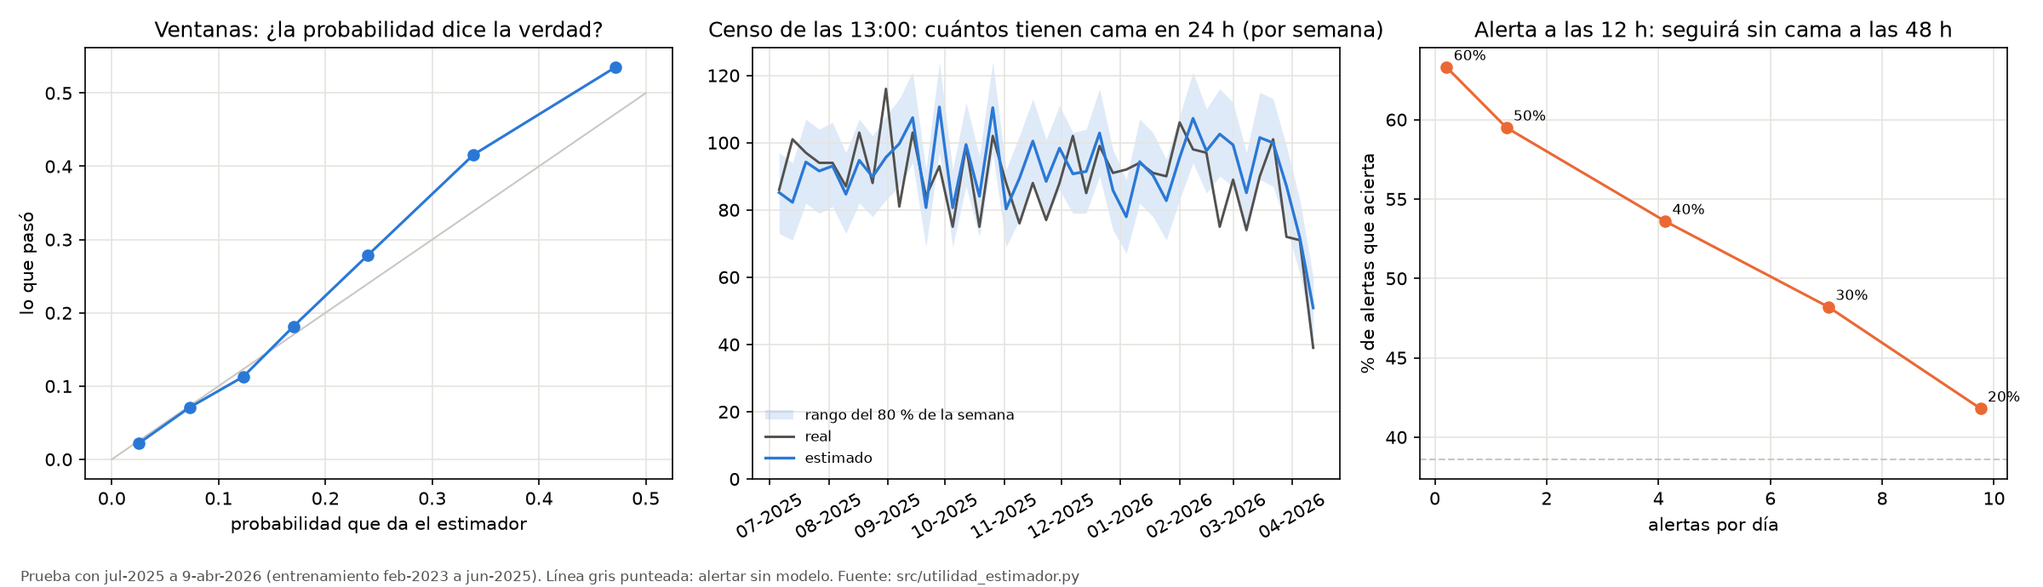
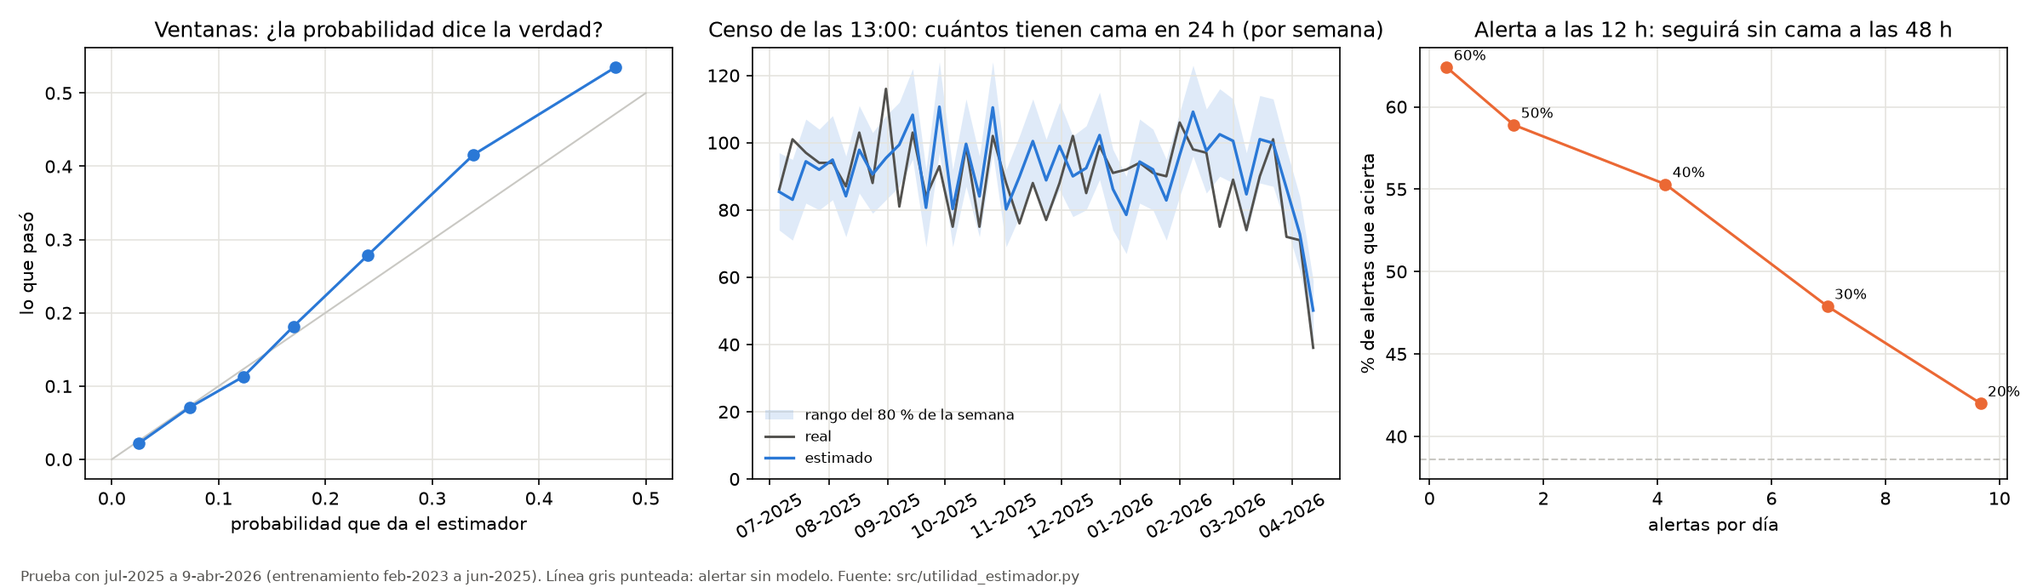
A6: banderas de laboratorio de las primeras 6 h en el estimador
Desde las 6 h de espera el estimador usa una bandera por valor anormal de los
laboratorios de las primeras 6 h (cortes de src/severidad_labs.py). Validado
de dos maneras: entrenando hasta jun-2025 (modelo fijo y reentreno mensual) y
el modelo de consulta entrenado con todos los datos con peso a lo reciente.
estimar_tiempo_restante() acepta laboratorios_6h. Docs actualizados.

diff --git a/src/comparar_estimadores.py b/src/comparar_estimadores.py
@@ -3,6 +3,7 @@ comparar_estimadores.py  -  version 2 (7-nov-2026)
 Tarea A6: maneras de estimar la espera de cama, comparadas en la misma prueba. Define tambien el modelo final (M1), que usa
 estimador_tiempo_restante.py.
 (v2: M1 suma el HISTORIAL del paciente y su RECORRIDO en urgencias, con un modelo por momento de la espera ("landmark"); ver abajo.)
+(v3, 8-nov: desde las 6 h de espera suma las BANDERAS DE LABORATORIO de las primeras 6 h, de src/severidad_labs.py de Daniela; ver abajo.)
 
 LOS TRES METODOS
   M1. TIEMPO RESTANTE (supervivencia por hora): para cada hora de espera se estima la probabilidad de recibir cama en la hora siguiente, segun cuanto lleva
@@ -41,6 +42,12 @@ PROCEDIMIENTOS (si existe procedimientos_por_estancia.csv en HUN_CRUDOS; extraid
      SERVICIO que atendio al paciente (ginecobstetricia, cirugia general, urologia, ortopedia, psiquiatria, pediatria, endoscopia digestiva).
   Los procedimientos NO tienen fecha: pueden ser de despues de recibir cama. Solo se usan como ESCENARIO (src/procedimientos_escenario.py), no en el
   estimador final.
+
+BANDERAS DE LABORATORIO (si existen sev_hemograma_6h_*.csv y sev_quimica_6h_*.csv en HUN_CRUDOS; consultas de sql/severidad_labs_6h.sql)
+  Valores de las primeras 6 h de la visita (leucocitos, hemoglobina, creatinina, BUN, lactato, potasio, sodio, troponina, PCR) con los mismos puntos de corte de
+  src/severidad_labs.py: una bandera por valor anormal, por separado (sumarlas cancela efectos opuestos: troponina y lactato reciben cama antes, PCR alta despues).
+  Por estancia se toma lo mas extremo entre sus registros. Solo se usan para estimar desde las 6 h de espera (antes no se conocen). ~40 % de las estancias tiene
+  algun valor; sin laboratorio, todas las banderas quedan en 0 y con_laboratorio_6h = 0.
 
 COLA Y OCUPACION
   Por hora y por zona (adultos de 15 anos o mas, ninos), con estancias unicas: ocupacion = pacientes en cama; cola = pacientes que ya llegaron, se
@@ -111,6 +118,7 @@ def preparar():
     d = d.reset_index(drop=True)
     d["clave"] = np.arange(len(d))
     d = procedimientos(d)
+    d = laboratorios(t, d)
     d = historial(t, d)
     cargar_etapas(d)
     return d, h, rejilla, estado
@@ -132,6 +140,51 @@ SERVICIOS = {   # en orden de prioridad para el servicio principal
 }
 PROC_GRAV = list(GRAVEDAD) + ["n_marcas_gravedad"]
 PROC_SERV = ["servicio_cod"] + list(SERVICIOS)
+BANDERAS_LAB = {"leucocitos_alt": ("leuc_max", 12, "mayor"), "leucopenia": ("leuc_min", 4, "menor"), "anemia": ("hb_min", 10, "menor"),
+                "creatinina_alta": ("creat_max", 1.5, "mayor"), "bun_alto": ("bun_max", 40, "mayor"), "lactato_alto": ("lactato_max", 2.2, "mayor"),
+                "potasio_alt": ("k_max", 5.5, "mayor"), "sodio_bajo": ("na_min", 130, "menor"), "sodio_alto": ("na_max", 150, "mayor"),
+                "troponina_alta": ("troponina_max", 1.0, "mayor"), "pcr_alta": ("pcr_max", 50, "mayor")}
+LAB = list(BANDERAS_LAB) + ["con_laboratorio_6h"]
+HORAS_LAB = 6                                  # las banderas son de las primeras 6 h: se usan desde las 6 h de espera
+HAY_LAB = False
+
+
+def banderas_desde_valores(v):
+    """v: DataFrame (o dict) con los valores de laboratorio; devuelve las banderas (0/1) con los puntos de corte de severidad_labs.py."""
+    v = pd.DataFrame(v) if not isinstance(v, pd.DataFrame) else v
+    out = {}
+    for n, (col, corte, lado) in BANDERAS_LAB.items():
+        s = pd.to_numeric(v[col], errors="coerce") if col in v else pd.Series(np.nan, index=v.index)
+        out[n] = ((s > corte) if lado == "mayor" else (s < corte)).fillna(False).astype(float).to_numpy()
+    return pd.DataFrame(out, index=v.index)
+
+
+def laboratorios(t, d):
+    """Banderas de laboratorio de las primeras 6 h por estancia (si estan los CSV de Daniela)."""
+    global HAY_LAB
+    hem, qui = sorted(CRUDOS.glob("sev_hemograma_6h_*.csv")), sorted(CRUDOS.glob("sev_quimica_6h_*.csv"))
+    if not hem or not qui:
+        return d
+    agg = {"leuc_max": "max", "leuc_min": "min", "hb_min": "min", "creat_max": "max", "bun_max": "max", "lactato_max": "max", "k_max": "max",
+           "na_max": "max", "na_min": "min", "troponina_max": "max", "pcr_max": "max"}
+    s = pd.concat([pd.read_csv(f) for f in hem]).merge(pd.concat([pd.read_csv(f) for f in qui]), on="visit_occurrence_id", how="outer")
+    cop = pd.read_csv(PROC / "copias.csv", usecols=["visit_occurrence_id", "raiz_id", "misma_persona"])
+    cop = cop[cop.misma_persona]                                                   # como severidad_labs.py: solo copias de la misma persona
+    s["visit_occurrence_id"] = s.visit_occurrence_id.map(cop.set_index("visit_occurrence_id").raiz_id).fillna(s.visit_occurrence_id).astype("int64")
+    s = s.groupby("visit_occurrence_id").agg(agg).reset_index()
+    reg = t.loc[t.hospitalizado & (t.estancia_id >= 0) & (t.episodio == 0), ["visit_occurrence_id", "estancia_id"]]
+    e = reg.merge(s, on="visit_occurrence_id").groupby("estancia_id").agg(agg)     # lo mas extremo entre los registros de la estancia
+    e = banderas_desde_valores(e).assign(con_laboratorio_6h=1.0)
+    d = d.merge(e, left_on="estancia_id", right_index=True, how="left")
+    d[LAB] = d[LAB].fillna(0.0)
+    HAY_LAB = True
+    return d
+
+
+def cols_finales(desde):
+    """Variables del estimador final segun cuantas horas lleva esperando el paciente."""
+    base = COLS_M1_FINAL if desde < HORAS_RECORRIDO else COLS_M1_BASE + HIST
+    return base + (LAB if HAY_LAB and desde >= HORAS_LAB else [])
 
 
 def procedimientos(d):
@@ -350,7 +403,7 @@ def entrenar_m1(tr, rejilla, estado, cols=COLS_M1, vida_media_dias=None):
 
 def entrenar_landmark(tr, rejilla, estado, desde, cols=None, vida_media_dias=None):
     """Modelo para estimar desde 'desde' horas de espera: quienes seguian esperando, con lo que se sabia en ese momento."""
-    cols = COLS_M1_FINAL if cols is None else cols
+    cols = cols_finales(desde) if cols is None else cols
     sub = tr[tr.espera_cama_h > desde].reset_index(drop=True)
     X, idx, kk = filas_persona_hora(sub, rejilla, estado, desde=desde, fijar_estado=True, cols=cols)
     e = sub.espera_cama_h.to_numpy()[idx]
@@ -465,7 +518,8 @@ if __name__ == "__main__":
         general, perfil = referencias(tr, sub, desde)
         base = perdida(y, general)
         preds = {"rango general (referencia)": general, "tabla de perfiles": perfil,
-                 "M1 tiempo restante": predecir_m1(entrenar_landmark(tr, rejilla, estado, desde) if desde < HORAS_RECORRIDO else m1_hist, sub, rejilla, estado, desde),
+                 "M1 tiempo restante": predecir_m1(entrenar_landmark(tr, rejilla, estado, desde) if desde < HORAS_RECORRIDO
+                                                   else entrenar_m1(tr, rejilla, estado, cols_finales(desde)), sub, rejilla, estado, desde),
                  "M1 sin historial ni recorrido": predecir_m1(m1_base, sub, rejilla, estado, desde),
                  "M1 solo con historial": predecir_m1(m1_hist, sub, rejilla, estado, desde),
                  "M1 sin historial ni recorrido, con cola (prueba)": predecir_m1(m1_con_cola, sub, rejilla, estado, desde),

diff --git a/src/estimador_tiempo_restante.py b/src/estimador_tiempo_restante.py
@@ -8,6 +8,8 @@ QUE USA (todo se conoce en el momento de la consulta)
   - El hospital: hora del reloj, dia de la semana y camas ocupadas en su zona (adultos o ninos).
   - Su historial (opcional): de su ultima hospitalizacion, cuanto espero, cuanto duro y hace cuantos dias termino; cuantas hospitalizaciones previas
     tiene; y el grupo del ultimo diagnostico de una visita anterior. Sin historial, el modelo lo trata como paciente nuevo.
+  - Sus laboratorios de las primeras 6 h (opcional, cuentan desde las 6 h de espera): leucocitos, hemoglobina, creatinina, BUN, lactato, potasio,
+    sodio, troponina y PCR; el modelo usa una bandera por valor anormal (src/severidad_labs.py de Daniela).
   - Su recorrido en urgencias (opcional): las etapas de atencion de esta visita, en horas desde la llegada (inicio y fin, o fin vacio si sigue abierta),
     y las admisiones. Si no se da, se asume lo mas comun: una etapa de atencion abierta desde la llegada y una admision al llegar.
   Modelo: comparar_estimadores.py (M1, version 2): con menos de 12 h de espera, un modelo por momento (LANDMARKS: el mas cercano por debajo) con historial y recorrido; desde las 12 h, un
@@ -52,12 +54,12 @@ def entrenar_paquete(d, rejilla, estado, hasta=None):
     """Los 6 modelos del estimador entrenados con las estancias que llegaron antes de 'hasta' (por defecto, todo el periodo confiable)."""
     tr = d if hasta is None else d[d.ini_est < pd.Timestamp(hasta)].reset_index(drop=True)
     modelos = {L: ce.entrenar_landmark(tr, rejilla, estado, L, vida_media_dias=VIDA_MEDIA_DIAS) for L in LANDMARKS}
-    modelos["desde_12h"] = ce.entrenar_m1(tr, rejilla, estado, ce.COLS_M1_BASE + ce.HIST, vida_media_dias=VIDA_MEDIA_DIAS)
+    modelos["desde_12h"] = ce.entrenar_m1(tr, rejilla, estado, ce.cols_finales(ce.HORAS_RECORRIDO), vida_media_dias=VIDA_MEDIA_DIAS)
     corte = np.datetime64(pd.Timestamp(hasta) if hasta is not None else ce.HASTA)
     fin = rejilla[(rejilla >= corte - np.timedelta64(90, "D")) & (rejilla < corte)]
     k = np.searchsorted(rejilla, fin)
     return {"modelos": modelos, "ocup_tipica": {z: float(np.median(estado[z]["ocup"][k])) for z in estado}, "grupos_dx": ce.GRUPOS_DX,
-            "entrenado_hasta": str(pd.Timestamp(corte).date()), "vida_media_dias": VIDA_MEDIA_DIAS, "version": 5}
+            "entrenado_hasta": str(pd.Timestamp(corte).date()), "vida_media_dias": VIDA_MEDIA_DIAS, "con_laboratorio": ce.HAY_LAB, "version": 6}
 
 
 def modelo_para(paq, horas_esperando):
@@ -105,17 +107,19 @@ def _entrenar_y_guardar():
 def _cargar():
     if "m" not in _CACHE:
         paq = joblib.load(MODELO) if MODELO.exists() else None
-        _CACHE["m"] = paq if paq is not None and paq.get("version") == 5 else _entrenar_y_guardar()
+        _CACHE["m"] = paq if paq is not None and paq.get("version") == 6 else _entrenar_y_guardar()
     return _CACHE["m"]
 
 
 def estimar_tiempo_restante(edad, sexo, tipo_visita, horas_esperando=0, ahora=None, ocupacion_zona=None,
-                            hospitalizacion_previa=None, diagnostico_previo=None, etapas_urgencias=None, admisiones=None):
+                            hospitalizacion_previa=None, diagnostico_previo=None, etapas_urgencias=None, admisiones=None, laboratorios_6h=None):
     """Tiempo que le falta a un paciente para recibir cama.
     sexo: 'Mujer' u 'Hombre'; tipo_visita: 'Urgencias', 'Treatment urgency' o 'Ambulatorio'.
     hospitalizacion_previa: dict con espera_h, estancia_h, dias_desde y n_previas (o None si nunca estuvo hospitalizado).
     diagnostico_previo: grupo de diagnostico de una visita anterior (como en datos/referencia/mapeo_dx.csv), o None.
-    etapas_urgencias: lista de (inicio_h, fin_h o None) en horas desde la llegada; admisiones: lista de horas desde la llegada."""
+    etapas_urgencias: lista de (inicio_h, fin_h o None) en horas desde la llegada; admisiones: lista de horas desde la llegada.
+    laboratorios_6h: dict con los valores de las primeras 6 h (leuc_max, leuc_min, hb_min, creat_max, bun_max, lactato_max, k_max, na_max, na_min,
+    troponina_max, pcr_max; los que falten se toman como normales), o None si no le tomaron laboratorio. Solo cuenta desde las 6 h de espera."""
     if sexo not in ("Mujer", "Hombre") or tipo_visita not in et.TIPOS:
         raise ValueError(f"sexo debe ser Mujer u Hombre y tipo_visita uno de {et.TIPOS}")
     if not 0 <= horas_esperando < ce.MAX_H - 1:
@@ -132,6 +136,8 @@ def estimar_tiempo_restante(edad, sexo, tipo_visita, horas_esperando=0, ahora=No
     etapas = [(0.0, None)] if etapas_urgencias is None else etapas_urgencias
     adm = [0.0] if admisiones is None and etapas_urgencias is None else (admisiones or [])
 
+    banderas = ({c: 0.0 for c in ce.LAB} if not laboratorios_6h else
+                {**ce.banderas_desde_valores(pd.DataFrame([laboratorios_6h])).iloc[0].to_dict(), "con_laboratorio_6h": 1.0})
     c = int(np.floor(horas_esperando))
     k = np.arange(c, ce.MAX_H)
     reloj = pd.DatetimeIndex(ahora + pd.to_timedelta(k - horas_esperando, unit="h"))
@@ -143,7 +149,8 @@ def estimar_tiempo_restante(edad, sexo, tipo_visita, horas_esperando=0, ahora=No
                       "zona_cod": int(zona == "ninos"),
                       "espera_prev_h": hp.get("espera_h", np.nan), "estancia_prev_h": hp.get("estancia_h", np.nan),
                       "n_hosp_previas": hp.get("n_previas", 1 if hp else 0), "dias_desde_hosp": hp.get("dias_desde", np.nan),
-                      "dx_previo_cod": paq["grupos_dx"].index(diagnostico_previo) if diagnostico_previo else np.nan, **rec})[m.cols_]
+                      "dx_previo_cod": paq["grupos_dx"].index(diagnostico_previo) if diagnostico_previo else np.nan, **rec,
+                      **{c: float(v) for c, v in banderas.items()}})[m.cols_]
     p = m.predict_proba(X)[:, 1]
     S = np.concatenate([[1.0], np.cumprod(1 - p)])[None, :]                    # S[j] = P(sigue esperando j horas despues de 'c')
     pct = np.clip(ce.cuantiles_de_supervivencia(S)[0] - (horas_esperando - c), 0, None)

diff --git a/src/ventana_entrenamiento.py b/src/ventana_entrenamiento.py
@@ -30,7 +30,7 @@ DIAS_SIN_USAR = 14             # en el reentrenamiento mensual, las llegadas de 
 def modelo(d, rejilla, estado, tr, desde, vida=None):
     if desde < ce.HORAS_RECORRIDO:
         return ce.entrenar_landmark(tr, rejilla, estado, desde, vida_media_dias=vida)
-    return ce.entrenar_m1(tr, rejilla, estado, ce.COLS_M1_BASE + ce.HIST, vida_media_dias=vida)
+    return ce.entrenar_m1(tr, rejilla, estado, ce.cols_finales(desde), vida_media_dias=vida)
 
 
 def reentreno_mensual(d, rejilla, estado, sub, desde, vida):

diff --git a/docs/estimador_tiempos.md b/docs/estimador_tiempos.md
@@ -4,8 +4,8 @@
 
 ## Resumen
 1. **La espera es individual.** Pacientes que llegan el mismo día o a la misma hora no esperan parecido. Por eso la ocupación del hospital o la cola casi no ayudan a estimarla, y lo que sirve es información de cada paciente.
-2. **El estimador es un modelo de tiempo restante.** Para un paciente que espera cama, da el rango de lo que le falta (percentiles 25, 50, 75 y 90) y la probabilidad de recibir cama en 6, 12 y 24 horas, y se recalcula a medida que pasa la espera. Usa el paciente, la hora del reloj, la ocupación, su historial de hospitalizaciones y su recorrido en urgencias, todo conocido en el momento. Se consulta con `estimar_tiempo_restante()`.
-3. **Funciona mejor que todo lo demás que probamos, pero el techo es bajo.** Reentrenado cada mes con más peso en lo reciente, que es como se debe usar porque el hospital cambió, mejora el rango 8,9 % al llegar y 10,8–11,3 % entre las 3 y las 6 horas de espera, frente a darle a todos el mismo rango. Sus percentiles aciertan en datos nuevos, y le gana con margen comprobado a las otras cinco alternativas.
+2. **El estimador es un modelo de tiempo restante.** Para un paciente que espera cama, da el rango de lo que le falta (percentiles 25, 50, 75 y 90) y la probabilidad de recibir cama en 6, 12 y 24 horas, y se recalcula a medida que pasa la espera. Usa el paciente, la hora del reloj, la ocupación, su historial de hospitalizaciones, su recorrido en urgencias y, desde las 6 h de espera, las banderas de sus laboratorios de las primeras 6 h (sección 3.3), todo conocido en el momento. Se consulta con `estimar_tiempo_restante()`.
+3. **Funciona mejor que todo lo demás que probamos, pero el techo es bajo.** Reentrenado cada mes con más peso en lo reciente, que es como se debe usar porque el hospital cambió, mejora el rango 8,9 % al llegar y 11,3–11,7 % entre las 3 y las 6 horas de espera, frente a darle a todos el mismo rango. Sus percentiles aciertan en datos nuevos, y le gana con margen comprobado a las otras cinco alternativas.
 4. **Lo que más decide cuándo llega la cama es la hora del reloj:** entre las 6 y las 12 h casi nadie recibe cama; las camas se asignan entre las 15 y las 17 h y entre las 20 y las 23 h.
 5. **Pensado para usarse cada día** (sección 3.2):
    - **Para el paciente:** responde en ventanas del día («esta tarde», «esta noche», «mañana en la tarde») con probabilidades que dicen la verdad.
@@ -101,23 +101,23 @@ estimar_tiempo_restante(edad=67, sexo="Mujer", tipo_visita="Urgencias", horas_es
 ## 3. Qué tan bien funciona
 **La prueba.** Todo se entrenó con llegadas de feb-2023 a jun-2025 y se probó con las 5.430 estancias de jul-2025 a 9-abr-2026, que ningún modelo había visto. Se mide la **mejora frente al rango general** (darle a todos los mismos percentiles), con la pérdida de cuantiles, que es el error estándar para percentiles. Los intervalos del 95 % salen de un bootstrap por semanas (1.000 repeticiones), porque los pacientes de una misma semana se parecen entre sí.
 
-**Cómo mejora al sumar información** (lo que le falta a quien sigue esperando). Todos los modelos de esta tabla se entrenaron una sola vez, para compararlos en igualdad de condiciones. Reentrenado cada mes con más peso en lo reciente, el estimador final gana entre 0,5 y 1,1 puntos más (sección 3.1).
+**Cómo mejora al sumar información** (lo que le falta a quien sigue esperando). Todos los modelos de esta tabla se entrenaron una sola vez, para compararlos en igualdad de condiciones. Reentrenado cada mes con más peso en lo reciente, el estimador final gana hasta 1,3 puntos más en las primeras 6 h (sección 3.1). Desde las 6 h incluye las banderas de laboratorio (sección 3.3).
 
 | Horas esperando | Tabla de perfiles | Modelo sin historial ni recorrido | + historial | **Estimador final** (IC 95 %) |
 |---|---|---|---|---|
 | 0 (al llegar) | 6,4 % | 7,0 % | 8,0 % | **8,4 % (7,5 a 9,3)** |
 | 3 h | 7,1 % | 8,0 % | 8,7 % | **10,4 % (9,4 a 11,3)** |
-| 6 h | 6,2 % | 7,7 % | 8,3 % | **9,7 % (8,8 a 10,7)** |
-| 12 h | 4,1 % | 6,7 % | 7,1 % | **7,1 % (5,5 a 8,5)** |
-| 24 h | 2,6 % | 4,9 % | 5,3 % | **5,3 % (3,5 a 7,0)** |
-| 48 h | −1,3 % | 2,0 % | 1,5 % | **1,5 % (−0,5 a 3,3)** |
+| 6 h | 6,2 % | 7,7 % | 8,3 % | **10,6 % (9,6 a 11,6)** |
+| 12 h | 4,1 % | 6,7 % | 7,1 % | **8,0 % (6,4 a 9,5)** |
+| 24 h | 2,6 % | 4,9 % | 5,3 % | **6,1 % (4,5 a 7,8)** |
+| 48 h | −1,3 % | 2,0 % | 1,5 % | **2,9 % (0,9 a 4,7)** |
 
-**¿Aciertan los percentiles?** Lo ideal es que el 25 / 50 / 75 / 90 % de los casos nuevos quede por debajo de cada uno. Con el estimador final quedan 26,5 / 51,8 / 74,2 / 87,7 % al llegar y 25,6 / 49,1 / 72,2 / 87,3 % a las 6 h. El p90 queda algo corto (87–88 %) porque los peores casos siguen empeorando (`HALLAZGOS.md` 4.3); conviene leerlo como un piso.
+**¿Aciertan los percentiles?** Lo ideal es que el 25 / 50 / 75 / 90 % de los casos nuevos quede por debajo de cada uno. Con el estimador final quedan 26,5 / 51,8 / 74,2 / 87,7 % al llegar y 25,5 / 49,4 / 72,1 / 87,2 % a las 6 h. El p90 queda algo corto (87–88 %) porque los peores casos siguen empeorando (`HALLAZGOS.md` 4.3); conviene leerlo como un piso.
 
 **Cómo leerlo:**
 - **Contra la tabla de perfiles, la ventaja es real en todos los momentos:** el intervalo de la diferencia nunca incluye el 0 (+1,4 a +2,8 puntos al llegar; +3,0 a +4,7 a las 6 h).
 - **Contra el modelo de cuantiles al llegar,** que era el segundo mejor, la ventaja también es real: +0,8 a +2,1 puntos.
-- **El historial suma desde la llegada, y el recorrido en las primeras horas** (probado a las 3 y a las 6 h). Desde las 12 h, la espera depende de otras cosas; a las 48 h ningún método mejora con claridad al rango general.
+- **El historial suma desde la llegada, y el recorrido en las primeras horas** (probado a las 3 y a las 6 h). Desde las 6 h suman las banderas de laboratorio (+0,9 puntos a las 6 h, +0,9 a las 12 h, +0,8 a las 24 h); a las 48 h la mejora es pequeña (2,9 %), aunque ya no incluye el 0.
 - **El techo es bajo:** el error de la mediana sigue siendo de unas 24 h al llegar.
 
 **Agosto y septiembre de 2025.** Según el equipo, el HUN tuvo sobredemanda porque los hospitales cercanos fueron intervenidos por el Estado y quedó como la única opción de la zona. En los datos se ve poco: un 6–7 % más de llegadas que en los mismos meses de 2024, con ingresos a cama y espera mediana normales. Evaluado aparte, el estimador mejora 8,4 % en esos meses y 8,4 % en el resto. El resultado se sostiene.
@@ -136,12 +136,12 @@ Un modelo entrenado sobre todo con 2023 y 2024 aprende un hospital que ya no exi
 
 | Forma de entrenar | Al llegar | 3 h | 6 h | 12 h | 24 h |
 |---|---|---|---|---|---|
-| Todo feb-2023 a jun-2025 (modelo fijo) | 8,4 % | 10,4 % | 9,7 % | 7,1 % | 5,3 % |
-| Solo los últimos 12 meses | 8,3 % | 10,3 % | 9,8 % | 6,3 % | 4,7 % |
-| Solo los últimos 6 meses | 8,4 % | 9,8 % | 9,2 % | 7,0 % | 5,9 % |
-| Todo, con más peso en lo reciente (vida media de 6 meses) | 8,6 % | 10,6 % | 9,9 % | 7,0 % | 5,3 % |
-| Reentrenado cada mes con todo lo anterior | 8,9 % | 10,9 % | 10,2 % | 7,5 % | 6,0 % |
-| **Reentrenado cada mes, con más peso en lo reciente** | **8,9 %** | **11,3 %** | **10,8 %** | **7,6 %** | **6,3 %** |
+| Todo feb-2023 a jun-2025 (modelo fijo) | 8,4 % | 10,4 % | 10,6 % | 8,0 % | 6,1 % |
+| Solo los últimos 12 meses | 8,3 % | 10,3 % | 10,1 % | 6,6 % | 4,8 % |
+| Solo los últimos 6 meses | 8,4 % | 9,8 % | 9,5 % | 7,1 % | 5,8 % |
+| Todo, con más peso en lo reciente (vida media de 6 meses) | 8,6 % | 10,6 % | 10,9 % | 8,1 % | 6,3 % |
+| Reentrenado cada mes con todo lo anterior | 8,9 % | 10,9 % | 11,0 % | 8,4 % | 6,5 % |
+| **Reentrenado cada mes, con más peso en lo reciente** | **8,9 %** | **11,3 %** | **11,7 %** | **7,9 %** | **6,3 %** |
 
 En el reentrenamiento mensual, cada mes de la prueba se estimó con un modelo entrenado solo con lo que se sabía antes de empezar ese mes. Es decir, con las estancias que ya tenían cama y que llegaron al menos 14 días antes.
 
@@ -183,12 +183,12 @@ Código: `src/utilidad_estimador.py`. La precisión para un paciente tiene un te
 | Regla | Alertas por día | Acierta | Detecta |
 |---|---|---|---|
 | Sin modelo: todos los que llevan 12 h | 11,1 | 38,6 % | 100 % |
-| Probabilidad ≥ 30 % | 7,0 | 48,2 % | 79,5 % |
-| **Probabilidad ≥ 40 %** | **4,1** | **53,6 %** | 51,7 % |
-| Probabilidad ≥ 50 % | 1,3 | 59,5 % | 17,9 % |
+| Probabilidad ≥ 30 % | 7,0 | 47,9 % | 78,3 % |
+| **Probabilidad ≥ 40 %** | **4,1** | **55,3 %** | 53,5 % |
+| Probabilidad ≥ 50 % | 1,5 | 58,9 % | 20,3 % |
 | Sin modelo: todos los que llevan 24 h (12 h más tarde) | 8,1 | 52,9 % | 100 % |
 
-**Lectura:** con un corte de 40 %, el estimador da 4,1 alertas diarias a las 12 h y acierta tanto como esperar a las 24 h y alertar a todos (54 % frente a 53 %), pero con **12 horas más de margen** y la mitad de alertas. A cambio, detecta solo a la mitad (52 %) de los que terminarán esperando más de 48 h. Complementa la alerta C de `src/alertas.py` (a las 48 h de espera), que avisa más tarde y acierta más.
+**Lectura:** con un corte de 40 %, el estimador da 4,1 alertas diarias a las 12 h y acierta algo más que esperar a las 24 h y alertar a todos (55 % frente a 53 %), pero con **12 horas más de margen** y la mitad de alertas. A cambio, detecta solo a la mitad (54 %) de los que terminarán esperando más de 48 h. Complementa la alerta C de `src/alertas.py` (a las 48 h de espera), que avisa más tarde y acierta más.
 
 **4. En el dashboard.** `dashboard/estimador.py` reúne todo en una página. Se describe al paciente (edad, sexo, tipo de visita, horas de espera y, si se sabe, su hospitalización anterior y sus etapas en urgencias) y muestra:
 - la ventana más probable y el gráfico de ventanas con la acumulada;
@@ -196,6 +196,25 @@ Código: `src/utilidad_estimador.py`. La precisión para un paciente tiene un te
 - el resumen de qué tan bien funciona, leído de las tablas agregadas.
 
 No usa datos de pacientes. El censo de pacientes en espera necesitaría los datos del hospital en tiempo real, que no tenemos.
+
+### 3.3 Banderas de laboratorio de las primeras 6 h (8-nov) y las dos maneras de entrenar
+Código: `src/comparar_estimadores.py` v3 (`laboratorios()`, `cols_finales()`); datos: `sev_hemograma_6h_*.csv` y `sev_quimica_6h_*.csv` (`sql/severidad_labs_6h.sql`, de Daniela).
+Con los valores de las primeras 6 h de la visita se arma una bandera por cada valor anormal, con los cortes de `src/severidad_labs.py`: leucocitos > 12 o < 4, hemoglobina < 10, creatinina > 1,5, BUN > 40, lactato > 2,2, potasio > 5,5, sodio < 130 o > 150, troponina > 1,0 y PCR > 50. Se usan **por separado**, porque sumarlas cancela efectos opuestos (`docs/espera_con_labs_y_severidad.md`). Las banderas solo entran desde las 6 h de espera, porque antes el resultado no se conoce. El 40 % de las estancias tiene algún valor; las demás quedan con todas las banderas en 0 y `con_laboratorio_6h = 0`. Con los valores numéricos en vez de las banderas el resultado es casi igual; se eligen las banderas porque se explican solas.
+
+**Manera 1: validación honesta** (entrenar hasta jun-2025 y probar con jul-2025 a 9-abr-2026). Mejora frente al rango general:
+
+| Horas esperando | Sin banderas, modelo fijo | **Con banderas, modelo fijo** | Sin banderas, reentreno mensual | **Con banderas, reentreno mensual** |
+|---|---|---|---|---|
+| 6 h | 9,7 % | **10,6 % (9,6 a 11,6)** | 10,8 % | **11,7 % (10,7 a 12,8)** |
+| 12 h | 7,1 % | **8,0 % (6,4 a 9,5)** | 7,6 % | **7,9 % (6,3 a 9,5)** |
+| 24 h | 5,3 % | **6,1 % (4,5 a 7,8)** | 6,3 % | **6,3 % (4,4 a 8,0)** |
+| 48 h | 1,5 % | **2,9 % (0,9 a 4,7)** | — | — |
+
+Antes de las 6 h nada cambia (8,4 % / 8,9 % al llegar y 10,4 % / 11,3 % a las 3 h). En la prueba con el modelo fijo, la diferencia por las banderas es real: +1,1 puntos a las 6 h (IC 0,7 a 1,5), +1,1 a las 12 h (0,5 a 1,8) y +1,1 a las 24 h (0,4 a 1,9). Los percentiles siguen calibrados (87–88 % debajo del p90). Con el reentreno mensual, la ganancia se concentra en las 6 h; a las 12 y 24 h el reentreno ya no le suma al modelo fijo (diferencia −0,7 a +0,6 y −0,9 a +1,1).
+
+**Manera 2: el modelo que se consulta, con todos los datos** (feb-2023 a 9-abr-2026, con más peso en lo reciente, vida media de 6 meses). Es el que guarda `src/estimador_tiempo_restante.py` (versión 6 del paquete, en `HUN_PROCESADOS/modelos/`, fuera del repositorio). **No se puede calificar con datos que no vio**, porque usa todos los meses y no queda nada para probar. Su precisión esperada es la de la columna «reentreno mensual» de la manera 1, que imita justamente esto: cada mes se entrena con todo lo conocido hasta ese momento, con más peso en lo reciente. Por eso se recomienda volver a entrenarlo cada mes (borrar el `.joblib`).
+
+**Cómo se consulta:** `estimar_tiempo_restante(..., laboratorios_6h={"troponina_max": 2.3, "pcr_max": 80})`. Los valores que falten se toman como normales; sin el argumento se supone que no le tomaron laboratorio.
 
 ## 4. Qué haría falta para mejorarlo: la gravedad y el servicio al llegar
 Código: `src/procedimientos_escenario.py` (procedimientos) y `src/triage_aproximado.py` (laboratorios). Se recalcularon todos los modelos que usan datos del paciente agregando lo que dicen los procedimientos (gravedad y servicio, sección 1.5) y el grupo de diagnóstico. Los modelos de cola y las dos series no usan datos del paciente, así que no cambian.
@@ -222,7 +241,7 @@ En todos los casos los percentiles siguen bien calibrados (al llegar, con todo: 
 1. **La gravedad y el servicio son la información que faltaba.** Juntos duplican la mejora al llegar (de 8,4 % a 16,9 %), y con el diagnóstico la llevan a 20,0 %. Ningún cambio de modelo se acercó a eso. El error de la mediana baja de 23,7 h a 20,8 h.
 2. **Gravedad y servicio aportan cosas distintas,** porque juntos suman más que cada uno por separado. La gravedad dice quién recibe cama rápido (UCI); el servicio dice quién espera más (cirugía, urología, ortopedia).
 3. **Un triage real debería servir todavía más,** porque se registra al llegar y no tiene el ruido de los procedimientos sin fecha.
-4. **Los laboratorios tempranos casi no ayudan** (−0,3 a +0,4 puntos, `src/triage_aproximado.py`).
+4. **El número de laboratorios tempranos casi no ayuda** (−0,3 a +0,4 puntos, `src/triage_aproximado.py`), pero **sus valores sí**: las banderas de valores anormales de Daniela suman ~1 punto desde las 6 h y ya están en el estimador (sección 3.3). Esta tabla de escenarios se calculó antes de sumarlas (columna «Sin procedimientos» = estimador sin banderas).
 
 **Para la recomendación R1** (`docs/recomendaciones.md`): **registrar en la base el nivel de triage y el servicio que recibirá al paciente**, con su hora. Con esos dos datos, la estimación de la espera de cada paciente podría mejorar alrededor del doble.
 
@@ -271,7 +290,7 @@ export HUN_PROCESADOS="D:/Descargas D/Datos/procesados" HUN_TABLAS="D:/Descargas
 ```
 1. **Tabla de episodios:** `src/analisis_etapas.py` y `src/preparar_variables.py`, con los CSV de la base en `datos/crudos/` y `P02_persona_de_los_diagnosticos.csv` y `P03_persona_de_los_laboratorios.csv` en `datos/crudos/auditoria_bd/`. Copiarlos ahí solo mientras corren y mover luego `datos/procesados/` a la carpeta externa.
 2. **Utilidad (ventanas, censo y alerta):** `python3 src/utilidad_estimador.py` (~10 min). Escribe `utilidad_*.csv` en `HUN_TABLAS` y `resultados/graficos/utilidad_estimador.png`.
-3. **Construcción y prueba del estimador:** `python3 src/comparar_estimadores.py` (~1,5 min). Escribe `comparacion_estimadores_*.csv` en `HUN_TABLAS` y `resultados/graficos/comparacion_estimadores.png`. Las formas de entrenar (sección 3.1): `python3 src/ventana_entrenamiento.py` (~10 min).
+3. **Construcción y prueba del estimador:** `python3 src/comparar_estimadores.py` (~1,5 min). Escribe `comparacion_estimadores_*.csv` en `HUN_TABLAS` y `resultados/graficos/comparacion_estimadores.png`. Las formas de entrenar (sección 3.1): `python3 src/ventana_entrenamiento.py` (~10 min). Las banderas de laboratorio (sección 3.3) entran solas si `sev_hemograma_6h_*.csv` y `sev_quimica_6h_*.csv` están en `HUN_CRUDOS`; el modelo de consulta con todos los datos se entrena con `python3 src/estimador_tiempo_restante.py` (borrando antes el `.joblib`).
 4. **Escenarios de gravedad y servicio:** `python3 src/procedimientos_escenario.py` (~4 min; necesita `procedimientos_por_estancia.csv` en `HUN_CRUDOS`) y `python3 src/triage_aproximado.py` (laboratorios).
 5. **Alternativas:** `python3 src/estimador_tiempos.py` (tabla de perfiles), `python3 src/espera_dos_series.py` (dos series) y `python3 src/variables_descartadas.py` (datos que no aportan).
 6. **Consulta:** `python3 src/estimador_tiempo_restante.py 67 Mujer Urgencias 6 "2026-03-04 15:00"`. Sin argumentos muestra los ejemplos de la sección 2.

diff --git a/docs/pendientes_y_reparto.md b/docs/pendientes_y_reparto.md
@@ -102,7 +102,7 @@ demanda, alertas, días atípicos, borrador de recomendaciones y un repositorio 
 - **Ojo:** la ocupación observada debe salir de estancias únicas (~100 camas), no de `serie_horaria.csv` viejo.
 
 ### A6. Estimar tiempos de atención (componente 3) · **Samuel** — **HECHA el 7-nov-2026** (`docs/estimador_tiempos.md`; función de consulta `src/estimador_tiempo_restante.py`)
-- **Resultado:** la espera de cama es individual (no depende del momento de llegada). Estimador: modelo de tiempo restante con el paciente, la hora del reloj, la ocupación, su historial y su recorrido en urgencias; mejora 8,4 % al llegar y 9,7–10,4 % a las 3–6 h (IC comprobados) frente al rango general, con percentiles calibrados, y le gana a las otras cinco alternativas. Techo bajo (error de la mediana ~24 h). Con los procedimientos de Daniela (7-nov) y P02 y P03 (8-nov): edad y sexo de la persona real en todas las estancias identificadas, lo que sube la mejora; el hospital da cama rápido a los graves (UCI 2,7 h) y hace esperar a urología, ortopedia y cirugía (30–38 h); si al llegar se supieran la gravedad y el servicio, la mejora llegaría a 16,9 % (20,0 % con el diagnóstico), argumento para registrar el triage y el servicio. El hospital cambió: reentrenar cada mes con más peso en lo reciente lleva la mejora a 8,9 % al llegar y 11,3 % a las 3 h; el estimador final se entrena así y debe reentrenarse cada mes. Uso diario (8-nov): respuesta en ventanas del día con probabilidades calibradas, censo para la reunión de camas con error en el mínimo que permite el azar, alerta a las 12 h y página `dashboard/estimador.py`. Los datos locales que quedaban (visitas previas a urgencias, congestión, calendario) no aportan (8-nov). Para subir la precisión hacen falta datos nuevos: laboratorios y diagnósticos con su hora durante la espera (consultas a la base), y del hospital el triage, la orden de hospitalización y el servicio. Pendiente: integrar la página al menú del dashboard.
+- **Resultado:** la espera de cama es individual (no depende del momento de llegada). Estimador: modelo de tiempo restante con el paciente, la hora del reloj, la ocupación, su historial y su recorrido en urgencias; mejora 8,4 % al llegar y 9,7–10,4 % a las 3–6 h (IC comprobados) frente al rango general, con percentiles calibrados, y le gana a las otras cinco alternativas. Techo bajo (error de la mediana ~24 h). Con los procedimientos de Daniela (7-nov) y P02 y P03 (8-nov): edad y sexo de la persona real en todas las estancias identificadas, lo que sube la mejora; el hospital da cama rápido a los graves (UCI 2,7 h) y hace esperar a urología, ortopedia y cirugía (30–38 h); si al llegar se supieran la gravedad y el servicio, la mejora llegaría a 16,9 % (20,0 % con el diagnóstico), argumento para registrar el triage y el servicio. El hospital cambió: reentrenar cada mes con más peso en lo reciente lleva la mejora a 8,9 % al llegar y 11,3 % a las 3 h; el estimador final se entrena así y debe reentrenarse cada mes. Uso diario (8-nov): respuesta en ventanas del día con probabilidades calibradas, censo para la reunión de camas con error en el mínimo que permite el azar, alerta a las 12 h y página `dashboard/estimador.py`. Los datos locales que quedaban (visitas previas a urgencias, congestión, calendario) no aportan (8-nov). Las banderas de laboratorio de las primeras 6 h (Daniela) sí: ~1 punto desde las 6 h de espera (11,7 % a las 6 h con reentreno mensual); ya integradas. Para subir la precisión hacen falta datos nuevos: laboratorios y diagnósticos con su hora durante la espera (consultas a la base), y del hospital el triage, la orden de hospitalización y el servicio. Pendiente: integrar la página al menú del dashboard.
 - **Qué pide el instructivo:** "modelos analíticos o predictivos que permitan estimar tiempos de atención". Es decir: cuando llega un paciente, ¿cuántas horas va a estar
   en urgencias, cuánto va a esperar cama o cuánto se va a quedar hospitalizado?
 - **Dónde estamos:** por paciente no se logra (esperar más de 24 h: AUC 0,60; estancia: R² cercano a 0; duración de urgencias de quien se va de alta: solo el 38 % tiene

diff --git a/docs/HALLAZGOS.md b/docs/HALLAZGOS.md
@@ -224,7 +224,8 @@ de las llegadas pronosticadas. *Descartado por falta de datos:* dengue y lluvia 
 - **Prueba** (entrenamiento feb-2023 a jun-2025, prueba jul-2025 a 9-abr-2026, 5.430 estancias): mejora 8,4 % al llegar (IC 95 % 7,5 a 9,3) y 9,7–10,4 % a las 3–6 h frente a dar el mismo rango a todos; los percentiles aciertan (26,5 / 51,8 / 74,2 / 87,7 % debajo de p25 / p50 / p75 / p90). Cifras con la edad y el sexo de la persona real (P02 y P03, 8-nov). Le gana con margen comprobado a la tabla de perfiles, a un modelo de cuantiles y a dos modelos de cola. Agosto y septiembre de 2025 (sobredemanda, dato del equipo) dan el mismo resultado.
 - **Gravedad y servicio (procedimientos de cada estancia, sin fecha):** el hospital da cama rápido a los graves (UCI: mediana 2,7 h) y hace esperar más a urología (37,7 h), ortopedia (32,8 h) y cirugía general (29,6 h). Si al llegar se supieran la gravedad y el servicio, la mejora pasaría de 8,4 % a 16,9 % (20,0 % sumando el diagnóstico; escenario optimista). **Registrar el triage y el servicio** es la mejora de datos que más ayudaría.
 - **La hora del reloj manda:** el 24 % de las camas se asigna entre las 15 y las 17 h y el 37 % entre las 20 y las 23 h; entre las 6 y las 12 h casi nadie recibe cama.
-- **El hospital cambió** (p90 de la espera de 61 a 81 h entre 2023 y 2026): reentrenar cada mes con más peso en lo reciente mejora la estimación en todos los momentos (8,9 % al llegar, 11,3 % a las 3 h y 10,8 % a las 6 h; la diferencia con el modelo fijo es real a las 3, 6 y 24 h). El estimador final se entrena así (`src/ventana_entrenamiento.py`).
+- **El hospital cambió** (p90 de la espera de 61 a 81 h entre 2023 y 2026): reentrenar cada mes con más peso en lo reciente mejora la estimación en todos los momentos (8,9 % al llegar, 11,3 % a las 3 h y 11,7 % a las 6 h; la diferencia con el modelo fijo es real a las 3 y 6 h). El estimador final se entrena así, con todos los datos hasta el 9-abr-2026 (`src/ventana_entrenamiento.py`).
+- **Banderas de laboratorio de las primeras 6 h (8-nov, `src/severidad_labs.py` de Daniela):** desde las 6 h de espera, una bandera por valor anormal (troponina, lactato, PCR, creatinina, etc.) suma ~1 punto real de mejora (modelo fijo: 6 h de 9,7 a 10,6 %, 12 h de 7,1 a 8,0 %, 24 h de 5,3 a 6,1 %; IC de la diferencia sin el 0). Ya están en el estimador (`docs/estimador_tiempos.md` 3.3).
 - **Uso diario** (`src/utilidad_estimador.py`, página `dashboard/estimador.py`):
   - Responde en ventanas del día con probabilidades calibradas: la ventana real está entre las 2 más probables en el 46 % de los pacientes, frente a 37 % sin modelo.
   - Para la reunión de camas dice cuántos de los que esperan tendrán cama en 12 o 24 h, con un error en el mínimo que permite el azar y un rango que acierta el 87–88 % de los días.

diff --git a/CLAUDE.md b/CLAUDE.md
@@ -688,7 +688,7 @@ escenarios y supuestos escritos y se declara como limitación en el documento fi
 | Sistema repetible de diagnóstico de cuellos de botella | **Hecho** (`src/diagnostico_cuello_botella.py`, `docs/diagnostico_cuello_botella.md`); falta sumarle Monte Carlo (A5) | A7 |
 | Dashboard de Power BI (**va de último**, datos parciales; guía para su Claude en `powerbi/CLAUDE.md`) y verificar fuentes de las recomendaciones | B2 (verificar fuentes de las recomendaciones) **hecha** (PR #1 de Samuel, mergeado el 8-nov-2026; falta recalcular las ~11 horas-paciente de R6 y la alerta de ocupación de R3). B1 (dashboard) pendiente | B1 y B2 |
 | `mapeo_dx.csv` (grupos de diagnóstico) y tiempos por diagnóstico | **Hecho como borrador** (falta validación clínica); `docs/diagnosticos_y_tiempos.md` | A3 |
-| Estimar tiempos de atención (componente 3) | **Hecho el 7-nov** (`docs/estimador_tiempos.md`): la espera es individual; modelo de tiempo restante con historial y recorrido en urgencias, reentrenado cada mes con más peso en lo reciente (8,9 % de mejora al llegar, 11,3 % a las 3 h, con la persona real de P02 y P03); salidas de uso diario (ventanas del día, censo para la reunión de camas, alerta a las 12 h) en `src/utilidad_estimador.py` y página `dashboard/estimador.py`; función de consulta `src/estimador_tiempo_restante.py` | A6 |
+| Estimar tiempos de atención (componente 3) | **Hecho el 7-nov** (`docs/estimador_tiempos.md`): la espera es individual; modelo de tiempo restante con historial y recorrido en urgencias, reentrenado cada mes con más peso en lo reciente (8,9 % de mejora al llegar, 11,3 % a las 3 h y 11,7 % a las 6 h, con la persona real de P02 y P03 y, desde las 6 h, las banderas de laboratorio de Daniela; el modelo de consulta se entrena con todos los datos hasta el 9-abr-2026); salidas de uso diario (ventanas del día, censo para la reunión de camas, alerta a las 12 h) en `src/utilidad_estimador.py` y página `dashboard/estimador.py`; función de consulta `src/estimador_tiempo_restante.py` | A6 |
 | README y reproducibilidad desde cero | README y `requirements.txt` hechos; falta probar desde cero con alguien que no tiene los datos | `README.md` |
 | Documento final y presentación | Pendiente (plazo: fin de noviembre de 2026) | — |
 | Sesión de preguntas con el HUN | **Por agendar**: el correo no tuvo respuesta; preguntas listas | `docs/hun/sesion_de_preguntas.md`, sección 8 |
